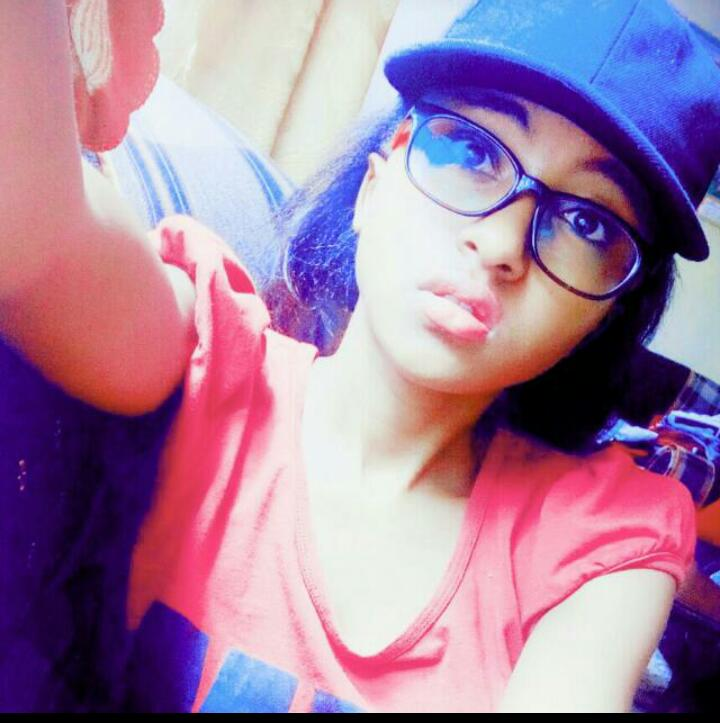
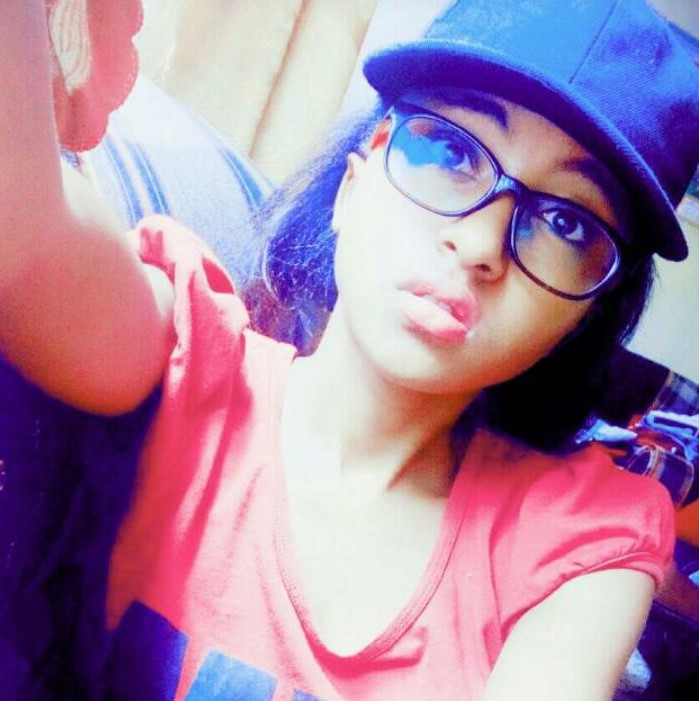
resized diana's image in the landing page and removed the animation

diff --git a/css/index.css b/css/index.css
@@ -25,7 +25,7 @@ body {
   margin: 1.5em auto;
 }
 
-@-webkit-keyframes move {
+/* @-webkit-keyframes move {
   0% {
     margin-left: -25em;
   }
@@ -48,7 +48,7 @@ body {
 
 #box:hover {
   -webkit-animation-play-state: paused;
-}
+} */
 
 .container {
   margin: 0% 5% 0% 5%;

diff --git a/index.html b/index.html
@@ -57,7 +57,7 @@
 
       <div id="container">
         <div id="box">
-          <img src="img/dyan.jpg" class="img-fluid" style="border-radius: 3%;">
+          <img src="img/dyan.jpg" class="img-fluid">
           </div>
       </div>
 
